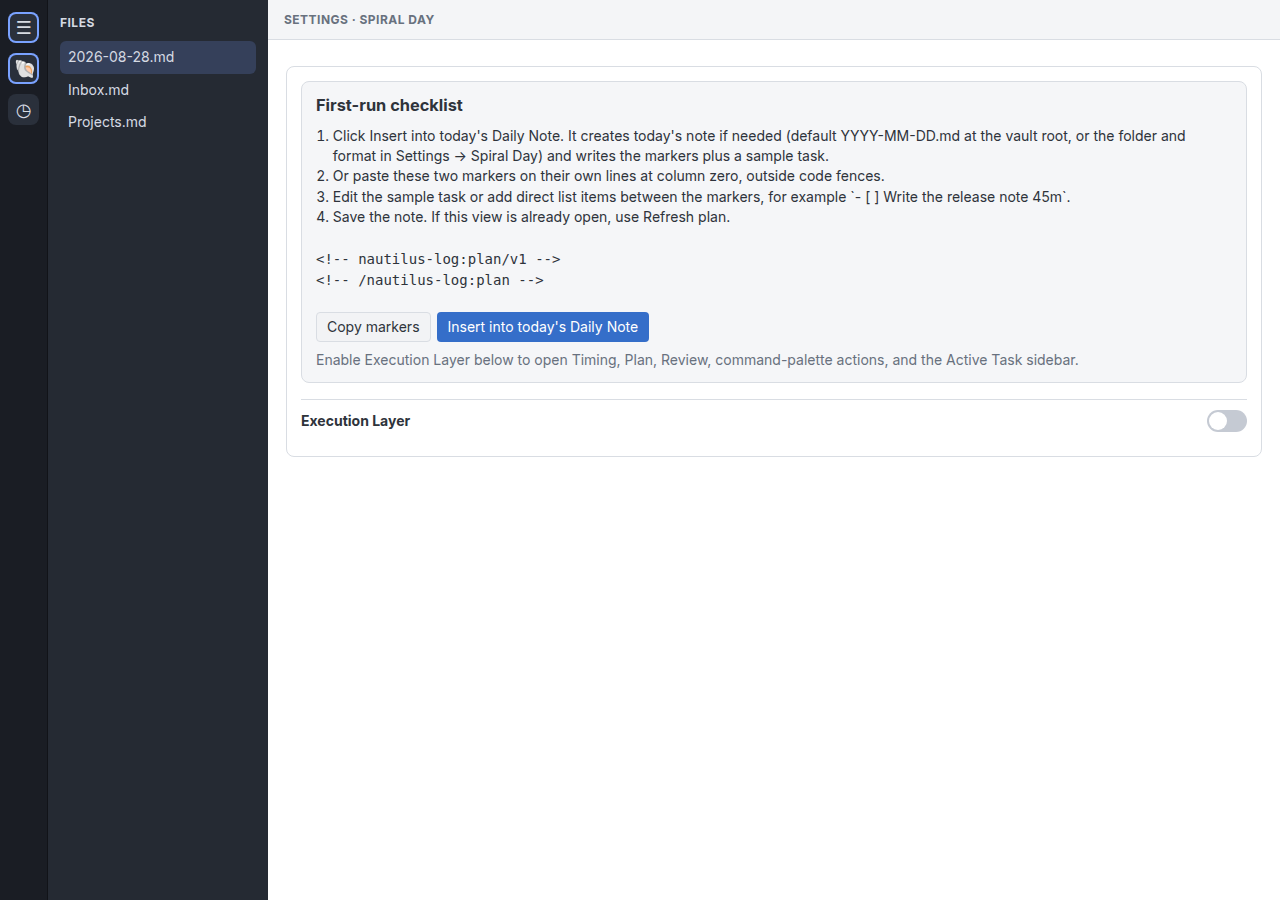
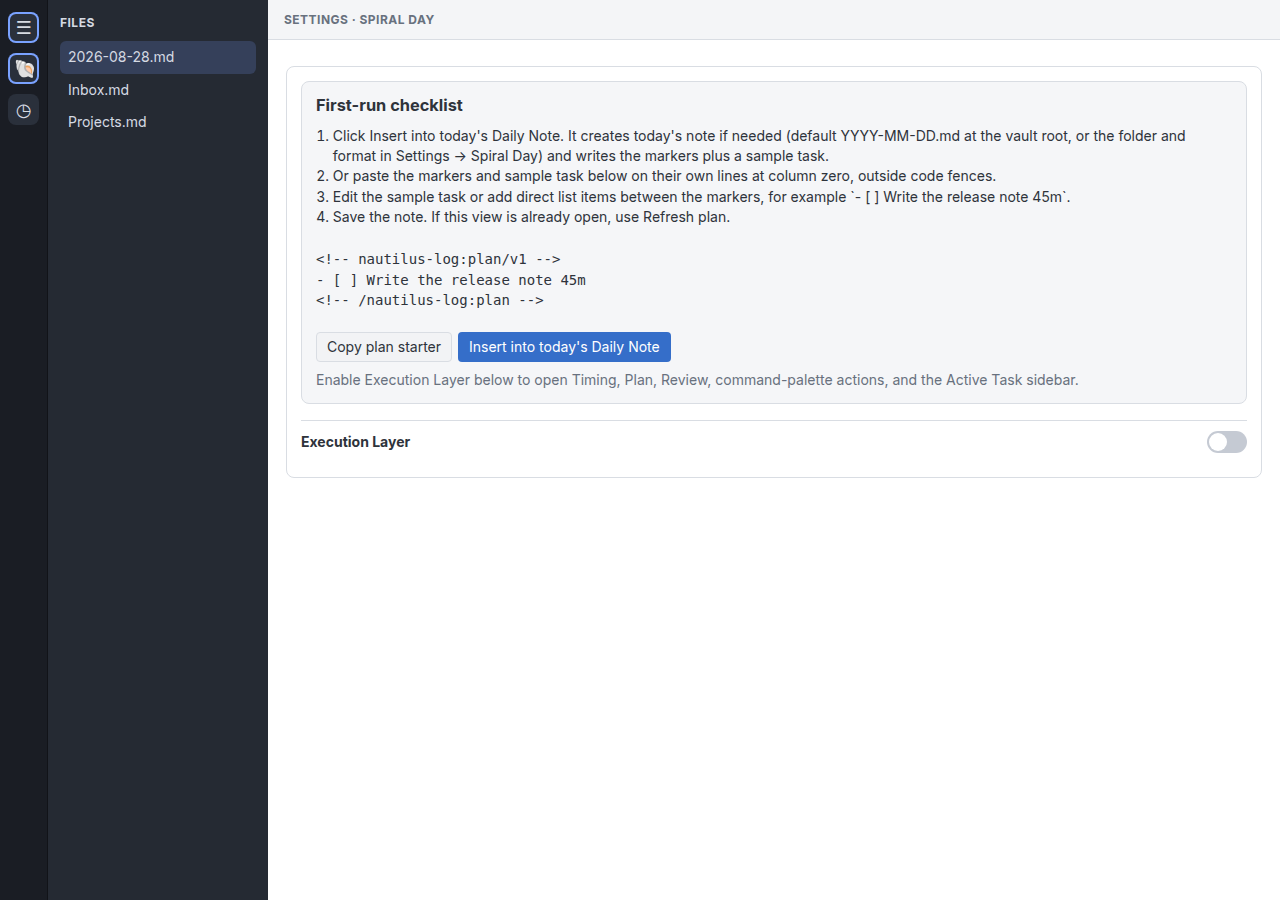
fix(onboarding): copy the localized plan starter, not empty markers
Paste-first users got a valid empty Primary Plan. Insert then said already
present, Review hid the Insert button, and step 3 asked them to edit a
sample task they never received. Copy now writes the same locale seed as
Insert.

Changed region(s): [[0.2188, 0.3111, 0.8438, 0.4978], [0.3125, 0.1867, 0.7812, 0.2178], [0.9375, 0.4356, 1.0, 0.5289]]

diff --git a/tests/ui/execution/first-run.test.ts b/tests/ui/execution/first-run.test.ts
@@ -4,7 +4,8 @@ import test from "node:test";
 import { createMessages, defineLocaleNamespace } from "../../../src/i18n/resolver";
 import { enExecution } from "../../../src/i18n/locales/en/execution";
 import { zhCNExecution } from "../../../src/i18n/locales/zh-CN/execution";
-import { PRIMARY_PLAN_MARKERS, renderPlanMissingGuidance } from "../../../src/ui/onboarding/first-run";
+import { renderPlanMissingGuidance } from "../../../src/ui/onboarding/first-run";
+import { CHINESE_SAMPLE_FLEXIBLE_TASK, ENGLISH_SAMPLE_FLEXIBLE_TASK, primaryPlanSeed } from "../../../src/workspace/insert-primary-plan";
 
 class ElementStub {
   className = "";
@@ -78,8 +79,9 @@ test("missing-plan guidance copies markers and inserts only after an explicit cl
   const text = collect(root).join("\n");
   assert.match(text, /Insert into today's Daily Note/);
   assert.match(text, /creates today's note if needed/);
-  assert.match(text, /Or paste these two markers/);
-  assert.equal(text.includes(PRIMARY_PLAN_MARKERS), true);
+  assert.match(text, /Or paste the markers and sample task/);
+  assert.equal(text.includes(primaryPlanSeed("en")), true);
+  assert.equal(text.includes(ENGLISH_SAMPLE_FLEXIBLE_TASK), true);
   assert.equal(inserted, 0);
 
   const insert = byClass(root, "spiral-day-onboarding__insert");
@@ -91,7 +93,33 @@ test("missing-plan guidance copies markers and inserts only after an explicit cl
   const copy = byClass(root, "spiral-day-onboarding__copy");
   assert.ok(copy);
   copy!.click();
-  assert.match(copy!.textContent, /Clipboard is unavailable|Copy markers/);
+  assert.match(copy!.textContent, /Clipboard is unavailable|Copy plan starter/);
+});
+
+test("missing-plan guidance copies the localized plan starter", async () => {
+  const document = new DocumentStub();
+  const root = document.createElement();
+  let copied = "";
+  document.defaultView.navigator.clipboard = {
+    writeText(text: string) {
+      copied = text;
+      return Promise.resolve();
+    },
+  };
+  const messages = createMessages({
+    locale: "zh-CN",
+    namespaces: { execution: defineLocaleNamespace("execution", enExecution, zhCNExecution) },
+  });
+  renderPlanMissingGuidance(root as unknown as HTMLElement, messages);
+  const text = collect(root).join("\n");
+  assert.equal(text.includes(primaryPlanSeed("zh-CN")), true);
+  assert.equal(text.includes(CHINESE_SAMPLE_FLEXIBLE_TASK), true);
+  const copy = byClass(root, "spiral-day-onboarding__copy");
+  assert.ok(copy);
+  copy!.click();
+  await Promise.resolve();
+  assert.equal(copied, primaryPlanSeed("zh-CN"));
+  assert.equal(copy!.textContent, "已复制计划模板。");
 });
 
 test("missing-plan guidance omits insert when the host has no write action", () => {
@@ -103,5 +131,5 @@ test("missing-plan guidance omits insert when the host has no write action", () 
   });
   renderPlanMissingGuidance(root as unknown as HTMLElement, messages);
   assert.equal(byClass(root, "spiral-day-onboarding__insert"), undefined);
-  assert.match(collect(root).join("\n"), /复制标记/);
+  assert.match(collect(root).join("\n"), /复制计划模板/);
 });

diff --git a/src/i18n/locales/en/planner.ts b/src/i18n/locales/en/planner.ts
@@ -62,15 +62,15 @@ export const enPlanner = Object.freeze({
   "status.loadingDetail": "Reading the confirmed plan snapshot.",
   "status.missingDetail": "No supported Plan Region was found. Click Insert into today's Daily Note to create today's note and write the markers plus a sample task, or paste `<!-- nautilus-log:plan/v1 -->` and `<!-- /nautilus-log:plan -->` at column zero. Opening Planner does not rewrite your note.",
   "status.missingStepNote": "Click Insert into today's Daily Note. It creates today's note if needed (default YYYY-MM-DD.md at the vault root, or the folder and format in Settings → Spiral Day) and writes the markers plus a sample task.",
-  "status.missingStepMarkers": "Or paste these two markers on their own lines at column zero, outside code fences.",
+  "status.missingStepMarkers": "Or paste the markers and sample task below on their own lines at column zero, outside code fences.",
   "status.missingStepItems": "Edit the sample task or add direct list items between the markers, for example `- [ ] Write the release note 45m`.",
   "status.missingStepRefresh": "Save the note. If this view is already open, use Refresh plan.",
-  "status.missingCopyMarkers": "Copy markers",
-  "status.missingCopied": "Markers copied.",
-  "status.missingCopyFailed": "Clipboard is unavailable. The markers are selected so you can copy them.",
+  "status.missingCopyMarkers": "Copy plan starter",
+  "status.missingCopied": "Plan starter copied.",
+  "status.missingCopyFailed": "Clipboard is unavailable. The plan starter is selected so you can copy it.",
   "status.missingInsert": "Insert into today's Daily Note",
   "status.missingInserted": "Primary Plan inserted. Edit the sample task, then save.",
-  "status.missingInsertFailed": "Could not insert the Primary Plan. Copy the markers and paste them yourself.",
+  "status.missingInsertFailed": "Could not insert the Primary Plan. Copy the plan starter and paste it yourself.",
   "status.missingAlreadyPresent": "Today's Daily Note already has a Primary Plan. Refresh the view.",
   "status.missingInsertBlocked": "Today's Daily Note has a malformed Plan Region. Repair the existing markers instead of inserting another pair.",
   "status.missingInvalidPath": "Today's Daily Note path is invalid. Check Daily Note folder and date format in Settings → Spiral Day.",

diff --git a/src/i18n/locales/zh-CN/planner.ts b/src/i18n/locales/zh-CN/planner.ts
@@ -62,15 +62,15 @@ export const zhCNPlanner = Object.freeze({
   "status.loadingDetail": "正在读取已确认的计划快照。",
   "status.missingDetail": "没有找到受支持的计划区域。请点「写入今日日记」创建今日笔记并写入标记加示例任务，或在行首粘贴 `<!-- nautilus-log:plan/v1 -->` 和 `<!-- /nautilus-log:plan -->`。打开规划器不会自动改写笔记。",
   "status.missingStepNote": "点「写入今日日记」。没有今日笔记时会按需创建（默认是库根目录下的 YYYY-MM-DD.md，或使用 设置 → Spiral Day 中的文件夹与日期格式），并写入标记加一条示例任务。",
-  "status.missingStepMarkers": "或者把下面两个标记各自单独一行写在行首，不要放进代码块。",
+  "status.missingStepMarkers": "或者把下面的标记和示例任务各自单独一行写在行首，不要放进代码块。",
   "status.missingStepItems": "改示例任务，或在标记之间写入直接列表项，例如 `- [ ] 写发布说明 45m`。",
   "status.missingStepRefresh": "保存笔记。如果规划器已经打开，请点「刷新日程」。",
-  "status.missingCopyMarkers": "复制标记",
-  "status.missingCopied": "已复制标记。",
-  "status.missingCopyFailed": "无法使用剪贴板。标记已选中，请手动复制。",
+  "status.missingCopyMarkers": "复制计划模板",
+  "status.missingCopied": "已复制计划模板。",
+  "status.missingCopyFailed": "无法使用剪贴板。计划模板已选中，请手动复制。",
   "status.missingInsert": "写入今日日记",
   "status.missingInserted": "已写入主计划。请改示例任务，然后保存。",
-  "status.missingInsertFailed": "无法写入主计划。请复制标记后自行粘贴。",
+  "status.missingInsertFailed": "无法写入主计划。请复制计划模板后自行粘贴。",
   "status.missingAlreadyPresent": "今日日记里已经有主计划。请刷新视图。",
   "status.missingInsertBlocked": "今日日记里的计划区域不完整。请先修好现有标记，不要再插入一对。",
   "status.missingInvalidPath": "今日日记路径无效。请检查 设置 → Spiral Day 中的日记文件夹和日期格式。",

diff --git a/src/ui/onboarding/first-run.ts b/src/ui/onboarding/first-run.ts
@@ -1,11 +1,10 @@
 import { PLAN_CLOSE_MARKER, PLAN_OPEN_MARKER_V1 } from "../../workspace/plan-region";
-import { ENGLISH_SAMPLE_FLEXIBLE_TASK } from "../../workspace/insert-primary-plan";
+import { primaryPlanSeed } from "../../workspace/insert-primary-plan";
 
 export const PRIMARY_PLAN_MARKERS = `${PLAN_OPEN_MARKER_V1}\n${PLAN_CLOSE_MARKER}`;
 
-export const SAMPLE_FLEXIBLE_TASK = ENGLISH_SAMPLE_FLEXIBLE_TASK;
-
 export interface PlanMissingCopy {
+  readonly locale: string;
   t(
     namespace: "planner",
     key:
@@ -69,9 +68,10 @@ export function renderPlanMissingGuidance(
     item.textContent = messages.t("planner", key);
     steps.append(item);
   }
+  const seed = primaryPlanSeed(messages.locale);
   const markers = create(parent.ownerDocument, "pre", "spiral-day-onboarding__markers");
   const code = create(parent.ownerDocument, "code");
-  code.textContent = PRIMARY_PLAN_MARKERS;
+  code.textContent = seed;
   markers.append(code);
   const actionsRow = create(parent.ownerDocument, "div", "spiral-day-onboarding__actions");
   const copy = create(parent.ownerDocument, "button", "spiral-day-onboarding__copy");
@@ -84,7 +84,7 @@ export function renderPlanMissingGuidance(
       copy.textContent = messages.t("planner", "status.missingCopyFailed");
       return;
     }
-    void clipboard.writeText(PRIMARY_PLAN_MARKERS).then(() => {
+    void clipboard.writeText(seed).then(() => {
       copy.textContent = messages.t("planner", "status.missingCopied");
     }).catch(() => {
       selectMarkers(code);

diff --git a/tests/ui/planner-controls/i18n.test.ts b/tests/ui/planner-controls/i18n.test.ts
@@ -141,10 +141,12 @@ test("missing-plan copy offers an explicit insert without rewriting on open", ()
   assert.match(enPlanner["status.missingInsert"], /Insert into today's Daily Note/);
   assert.match(enPlanner["status.missingDetail"], /Opening Planner does not rewrite/);
   assert.match(enPlanner["status.missingStepNote"], /^Click Insert into today's Daily Note/);
-  assert.match(enPlanner["status.missingStepMarkers"], /^Or paste these two markers/);
+  assert.match(enPlanner["status.missingStepMarkers"], /^Or paste the markers and sample task/);
+  assert.equal(enPlanner["status.missingCopyMarkers"], "Copy plan starter");
   assert.match(zhCNPlanner["status.missingInsert"], /写入今日日记/);
   assert.match(zhCNPlanner["status.missingStepNote"], /^点「写入今日日记」/);
-  assert.match(zhCNPlanner["status.missingStepMarkers"], /^或者把下面两个标记/);
+  assert.match(zhCNPlanner["status.missingStepMarkers"], /^或者把下面的标记和示例任务/);
+  assert.equal(zhCNPlanner["status.missingCopyMarkers"], "复制计划模板");
   assert.match(zhCNPlanner["status.missingStepRefresh"], /刷新日程/);
 });
 

diff --git a/scripts/user-guide-preview/main.ts b/scripts/user-guide-preview/main.ts
@@ -4,6 +4,7 @@ import { zhCNExecution } from "../../src/i18n/locales/zh-CN/execution";
 import { enReview } from "../../src/i18n/locales/en/review";
 import { zhCNReview } from "../../src/i18n/locales/zh-CN/review";
 import { PRIMARY_PLAN_MARKERS } from "../../src/ui/onboarding/first-run";
+import { primaryPlanSeed } from "../../src/workspace/insert-primary-plan";
 import {
   confirmedSnapshot,
   createProjectionRevision,
@@ -191,7 +192,7 @@ function settingsScene(executionOn: boolean) {
     steps.append(el("li", undefined, messages.t("planner", key)));
   }
   const markers = el("pre", "spiral-day-onboarding__markers");
-  markers.append(el("code", undefined, PRIMARY_PLAN_MARKERS));
+  markers.append(el("code", undefined, primaryPlanSeed("en")));
   const actions = el("div", "spiral-day-onboarding__actions");
   actions.append(el("button", "spiral-day-onboarding__copy", messages.t("planner", "status.missingCopyMarkers")));
   actions.append(el("button", "spiral-day-onboarding__insert", messages.t("planner", "status.missingInsert")));

diff --git a/tests/ui/execution/plan-view.test.ts b/tests/ui/execution/plan-view.test.ts
@@ -6,7 +6,7 @@ import { enExecution } from "../../../src/i18n/locales/en/execution";
 import { zhCNExecution } from "../../../src/i18n/locales/zh-CN/execution";
 import { createMessages, defineLocaleNamespace } from "../../../src/i18n/resolver";
 import type { RuntimePlanItemSource } from "../../../src/runtime/projection-runtime";
-import { PRIMARY_PLAN_MARKERS } from "../../../src/ui/onboarding/first-run";
+import { primaryPlanSeed } from "../../../src/workspace/insert-primary-plan";
 import { renderPlanView, type PlanViewOptions } from "../../../src/ui/execution/plan-view";
 
 class ElementStub {
@@ -137,5 +137,5 @@ test("Plan missing state shows the Primary Plan markers and next actions", () =>
   const text = collectText(root).join("\n");
   assert.match(text, /No Primary Plan was found today/);
   assert.match(text, /nautilus-log:plan\/v1/);
-  assert.equal(text.includes(PRIMARY_PLAN_MARKERS), true);
+  assert.equal(text.includes(primaryPlanSeed("en")), true);
 });

diff --git a/docs/user-guide.md b/docs/user-guide.md
@@ -101,9 +101,9 @@ Rules that matter on day one:
   **Flexible Task** that the scheduler places into free time.
 - Tokens are read only from the first physical line of each item.
 
-If Planner is still empty, it now shows the markers, **Copy markers**,
-**Insert into today's Daily Note**, and where to open Timing / Plan / Review
-after you enable Execution.
+If Planner is still empty, it now shows the markers plus a sample task,
+**Copy plan starter**, **Insert into today's Daily Note**, and where to open
+Timing / Plan / Review after you enable Execution.
 
 ![Planner empty-state guidance](user-guide/images/05-planner-empty-guidance.png)
 

diff --git a/README.md b/README.md
@@ -71,8 +71,8 @@ empty Planner that now lists the next action.
    ```
 
 3. Click the **Open Spiral Day** ribbon icon. The Planner reads that Primary
-   Plan. If the markers are missing, it shows them again and offers **Copy
-   markers** and **Insert into today's Daily Note**.
+   Plan. If the markers are missing, it shows the plan starter again and offers
+   **Copy plan starter** and **Insert into today's Daily Note**.
 4. Enable **Execution Layer** when you want CLOCK, POMO, Timing, Plan, Review,
    the Active Task sidebar, and `Spiral Day:` command-palette actions.
 
